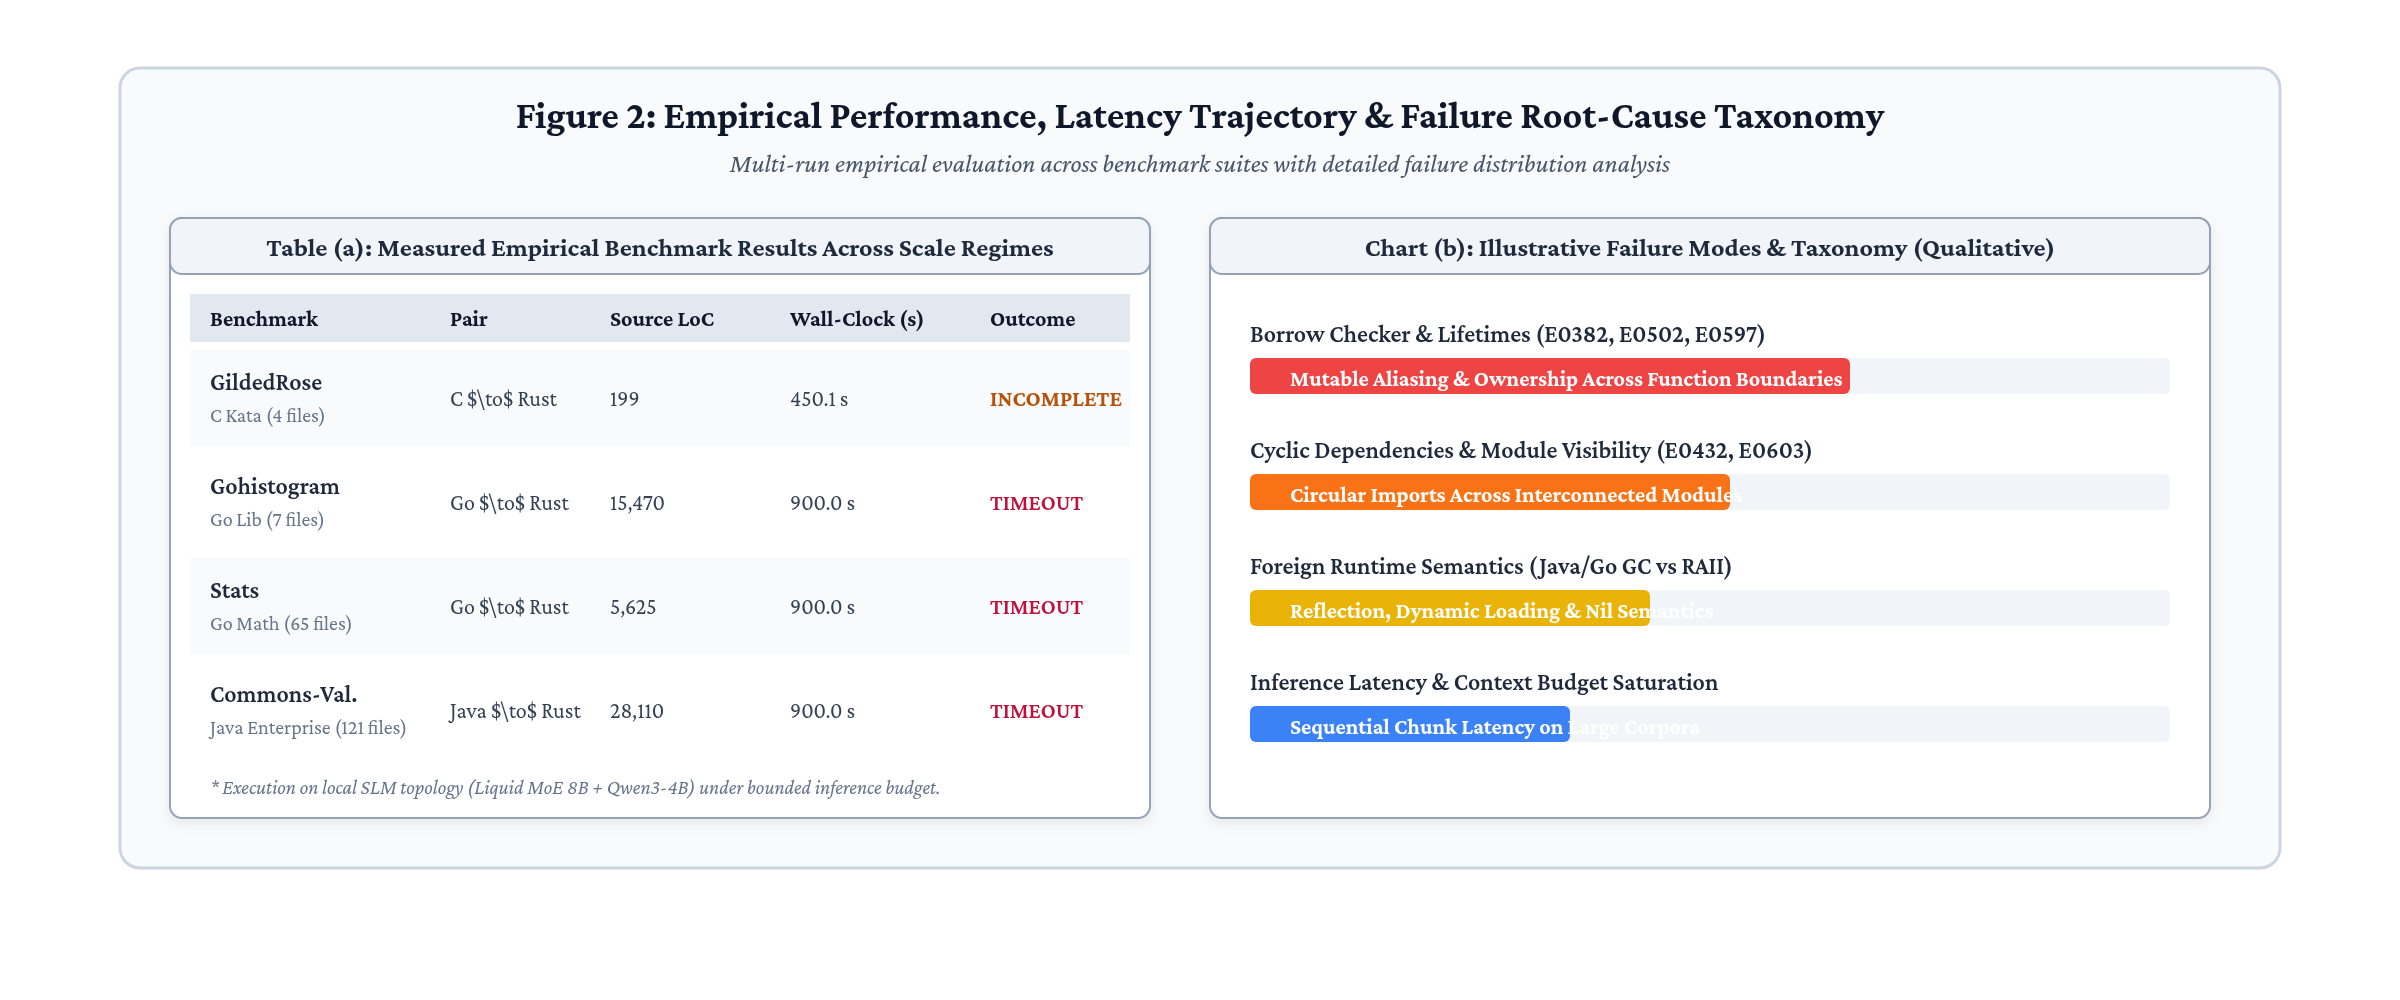
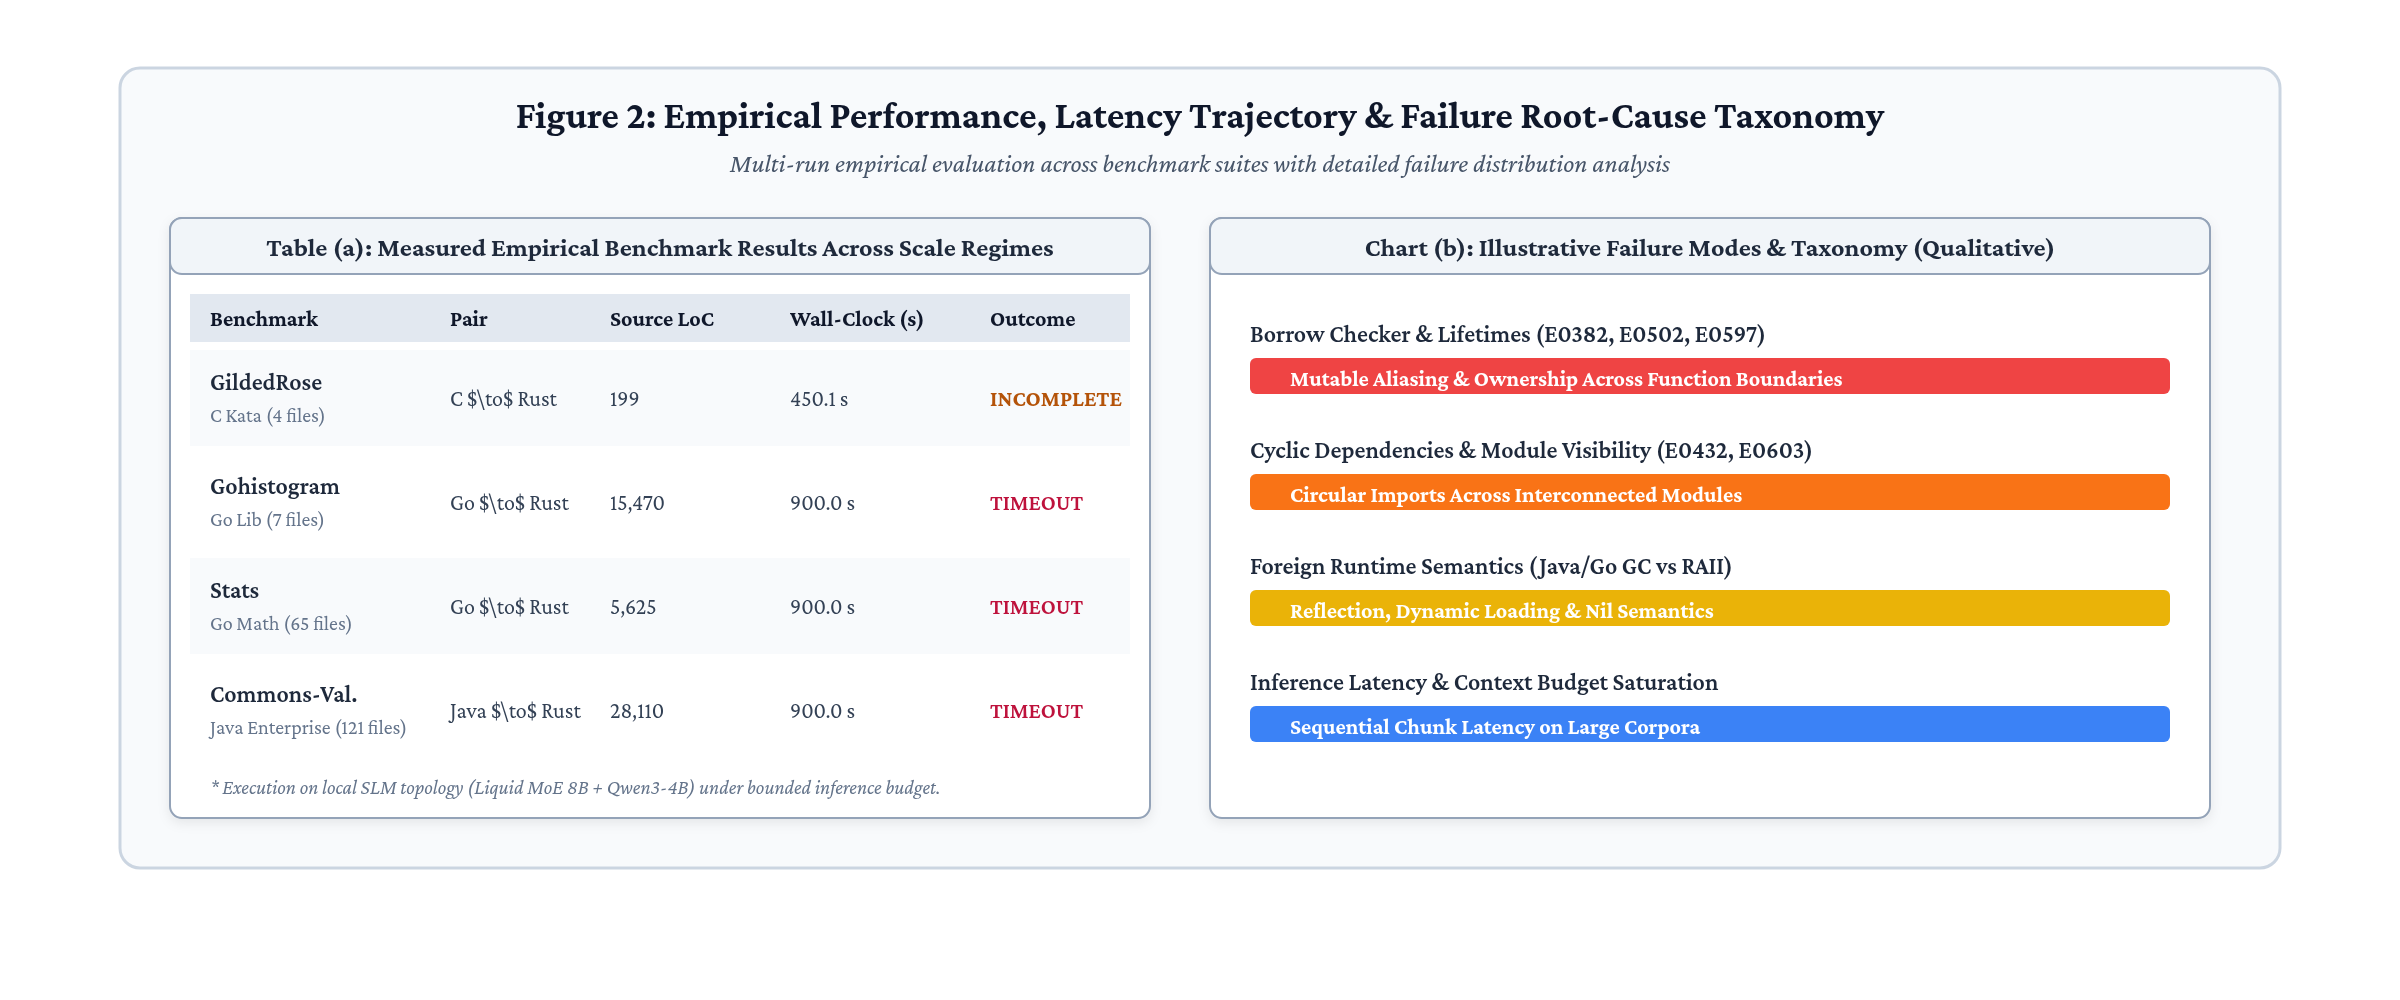
docs(figures): standardize qualitative taxonomy visualization in Figure 2

diff --git a/docs/.paper/figures/fig2_empirical_results.html b/docs/.paper/figures/fig2_empirical_results.html
@@ -99,7 +99,7 @@
     <g transform="translate(20, 48)">
       <text x="0" y="14" font-size="12" font-weight="600" fill="#1e293b">Borrow Checker &amp; Lifetimes (E0382, E0502, E0597)</text>
       <rect x="0" y="22" width="460" height="18" rx="3" fill="#f1f5f9" />
-      <rect x="0" y="22" width="300" height="18" rx="3" fill="#ef4444" />
+      <rect x="0" y="22" width="460" height="18" rx="3" fill="#ef4444" />
       <text x="20" y="36" font-size="11" font-weight="700" fill="#ffffff">Mutable Aliasing &amp; Ownership Across Function Boundaries</text>
     </g>
 
@@ -107,7 +107,7 @@
     <g transform="translate(20, 106)">
       <text x="0" y="14" font-size="12" font-weight="600" fill="#1e293b">Cyclic Dependencies &amp; Module Visibility (E0432, E0603)</text>
       <rect x="0" y="22" width="460" height="18" rx="3" fill="#f1f5f9" />
-      <rect x="0" y="22" width="240" height="18" rx="3" fill="#f97316" />
+      <rect x="0" y="22" width="460" height="18" rx="3" fill="#f97316" />
       <text x="20" y="36" font-size="11" font-weight="700" fill="#ffffff">Circular Imports Across Interconnected Modules</text>
     </g>
 
@@ -115,7 +115,7 @@
     <g transform="translate(20, 164)">
       <text x="0" y="14" font-size="12" font-weight="600" fill="#1e293b">Foreign Runtime Semantics (Java/Go GC vs RAII)</text>
       <rect x="0" y="22" width="460" height="18" rx="3" fill="#f1f5f9" />
-      <rect x="0" y="22" width="200" height="18" rx="3" fill="#eab308" />
+      <rect x="0" y="22" width="460" height="18" rx="3" fill="#eab308" />
       <text x="20" y="36" font-size="11" font-weight="700" fill="#ffffff">Reflection, Dynamic Loading &amp; Nil Semantics</text>
     </g>
 
@@ -123,7 +123,7 @@
     <g transform="translate(20, 222)">
       <text x="0" y="14" font-size="12" font-weight="600" fill="#1e293b">Inference Latency &amp; Context Budget Saturation</text>
       <rect x="0" y="22" width="460" height="18" rx="3" fill="#f1f5f9" />
-      <rect x="0" y="22" width="160" height="18" rx="3" fill="#3b82f6" />
+      <rect x="0" y="22" width="460" height="18" rx="3" fill="#3b82f6" />
       <text x="20" y="36" font-size="11" font-weight="700" fill="#ffffff">Sequential Chunk Latency on Large Corpora</text>
     </g>
   </g>
